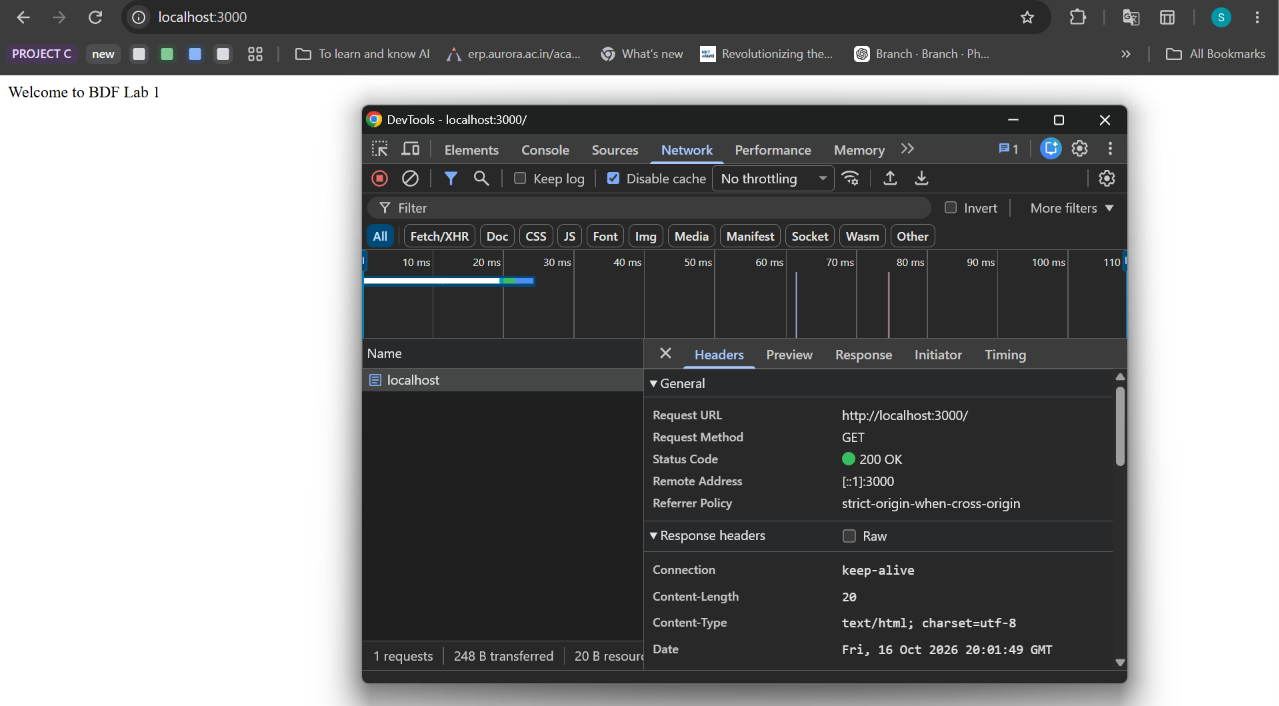
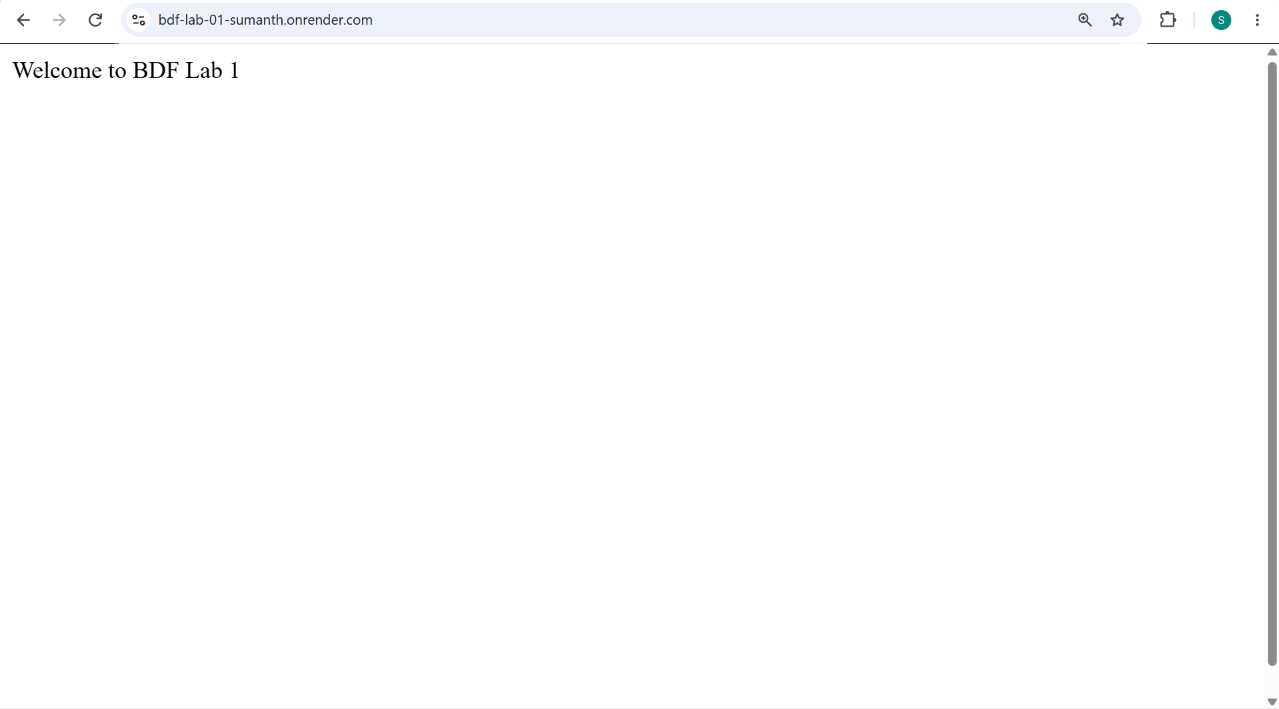
Finalize Lab 1 README and screenshots

diff --git a/lab-01/README.md b/lab-01/README.md
@@ -1,22 +1,22 @@
-<<<<<<< HEAD
-# BDF Lab 1: Node.js and Express Server
+# Lab 1: Node.js and Express Server
 
 ## Student Details
 
 - **Name:** Sumanth
-- **Registration Number:** Enter your registration number
+- **Registration Number:** 252U1R9117
 - **Section:** 111 CSE GEN-AI 2B
+- **Course:** Backend Development Fundamentals
 - **Lab Number:** 01
 
-## Live Deployment
+## Live Link
 
 **Platform:** Render
 
-**Live URL:** To be added after deployment.
+**Live URL:** https://bdf-lab-01-sumanth.onrender.com
 
 ## Objective
 
-To create a basic HTTP server using Node.js and develop an Express server with multiple routes, JSON responses, date and time output, and error handling for unknown routes.
+To set up a Node.js project and build a web server first using the built-in HTTP module and then using Express.js.
 
 ## Technologies Used
 
@@ -26,33 +26,45 @@ To create a basic HTTP server using Node.js and develop an Express server with m
 - npm
 - Visual Studio Code
 - Google Chrome
+- Git and GitHub
+- Render
 
 ## Project Structure
 
 ```text
-lab-01/
-├── screenshots/
-│   ├── home.png
-│   ├── about.png
-│   ├── time.png
-│   └── not-found.png
+BDF-Course-Labs/
 ├── .gitignore
-├── package.json
-├── package-lock.json
-├── README.md
-├── server-http.js
-└── server.js
+└── lab-01/
+    ├── screenshots/
+    │   ├── home.png
+    │   ├── home-status.png
+    │   ├── about.png
+    │   ├── about-status.png
+    │   ├── time.png
+    │   ├── time-status.png
+    │   ├── not-found.png
+    │   └── not-found-status.png
+    ├── .gitignore
+    ├── README.md
+    ├── package.json
+    ├── package-lock.json
+    ├── server-http.js
+    └── server.js
 ```
+
+**Note:** `node_modules/` is installed locally and excluded from GitHub using `.gitignore`.
 
 ## Installation and Setup
 
 ### Prerequisites
 
-Install Node.js and npm.
+Install Node.js and npm on your system.
 
 ### Install Dependencies
 
-Open the terminal in the project folder and run:
+1. Open the `lab-01` folder in Visual Studio Code.
+2. Open the terminal.
+3. Run the following command:
 
 ```bash
 npm install
@@ -60,28 +72,56 @@ npm install
 
 ### Run the Express Server
 
+Start the Express server using:
+
 ```bash
-node server.js
+npm start
 ```
 
-Open `http://localhost:3000` in your browser.
+Open the following URL in your browser:
+
+http://localhost:3000
 
 ### Run the Original Node.js HTTP Server
+
+To run the server created using the built-in Node.js HTTP module, use:
 
 ```bash
 node server-http.js
 ```
 
-Stop the currently running server before starting another server on the same port.
+Stop the running server before starting another server on the same port.
+
+## package.json Fields
+
+- **name:** The name of the project.
+- **version:** The current project version.
+- **description:** A short description of the project, if provided.
+- **main:** The main entry file specified in the project.
+- **scripts:** Commands used to run project tasks, such as `npm start`.
+- **keywords:** Words describing the project, if provided.
+- **author:** The project author's name, if provided.
+- **license:** The project's license.
+- **type:** Specifies the JavaScript module system. `commonjs` allows the use of `require()`.
+- **dependencies:** Packages required by the application, including Express.
+
+The fields shown depend on the actual `package.json` file.
 
 ## API Endpoints
 
-| HTTP Method | Endpoint | Description | Status Code |
+| HTTP Method | Endpoint | Description | Expected Status Code |
 |---|---|---|---|
-| GET | `/` | Displays a welcome message | 200 OK |
-| GET | `/about` | Returns student details in JSON format | 200 OK |
+| GET | `/` | Displays the welcome message | 200 OK |
+| GET | `/about` | Returns the name and section in JSON format | 200 OK |
 | GET | `/time` | Displays the current date and time | 200 OK |
-| GET | `/anything` | Returns a page-not-found message | 404 Not Found |
+| GET | `/anything` | Displays a page-not-found message for an unknown route | 404 Not Found |
+
+### Test the Live Endpoints
+
+- Home: https://bdf-lab-01-sumanth.onrender.com/
+- About: https://bdf-lab-01-sumanth.onrender.com/about
+- Time: https://bdf-lab-01-sumanth.onrender.com/time
+- 404 Test: https://bdf-lab-01-sumanth.onrender.com/anything
 
 ## Screenshots
 
@@ -125,37 +165,35 @@ Stop the currently running server before starting another server on the same por
 
 ![404 status code](screenshots/not-found-status.png)
 
-
 ## HTTP Status Codes
 
-- **200 OK:** The request was successful.
-- **404 Not Found:** The requested route does not exist.
+- **200 OK:** The request was successful, and the server returned the requested response.
+- **404 Not Found:** The requested route does not exist on the server.
+
+## Viva Questions and Answers
+
+### 1. What is the difference between `package.json` and `node_modules`?
+
+`package.json` stores project information, scripts, and dependency details. `node_modules` contains the installed packages used by the application.
+
+### 2. What does `app.listen()` do?
+
+`app.listen()` starts the Express server and makes it listen for incoming requests on the specified port.
+
+### 3. What do request and response represent?
+
+The request contains information sent by the client to the server. The response contains the information the server sends back to the client.
+
+## Notes: Problems Faced and Solutions
+
+- **Git push rejection:** The local and remote repositories had separate histories. The remote changes were pulled, the README conflict was resolved, and the changes were pushed to GitHub.
+- **Deployment configuration:** The Express server was configured to use `process.env.PORT || 3000` so it works locally and on Render. An `npm start` script was added to `package.json`.
+- **Screenshot documentation:** Separate screenshots were captured for server responses and HTTP status-code verification and referenced in this README.
 
 ## Result
 
-Successfully created and tested a basic Node.js HTTP server and an Express server with multiple routes, JSON responses, date and time output, and 404 error handling.
-
-## Viva Questions
-
-**1. What is the difference between `package.json` and `node_modules`?**
-
-`package.json` stores project details, scripts, and dependency information. `node_modules` contains installed packages.
-
-**2. What does `app.listen()` do?**
-
-It starts the Express server and listens for incoming requests on the specified port.
-
-**3. What are request and response?**
-
-The request contains information sent by the client. The response contains the information sent back by the server.
-
-## Problems Faced
-
-Record the actual issues faced during development and how they were resolved.
+Successfully created and tested a Node.js HTTP server and an Express server with multiple routes, JSON responses, date and time output, and 404 handling. The Express application was deployed on Render.
 
 ## Git Repository
 
-Add the GitHub repository URL after uploading the lab files.
-=======
-# Lab 1: Node.js and Express server
->>>>>>> 398a9f89cd2f9e8ba6e774f4f932436b164c0375
+[View BDF-Course-Labs on GitHub](https://github.com/pandiri-sumanth/BDF-Course-Labs)
